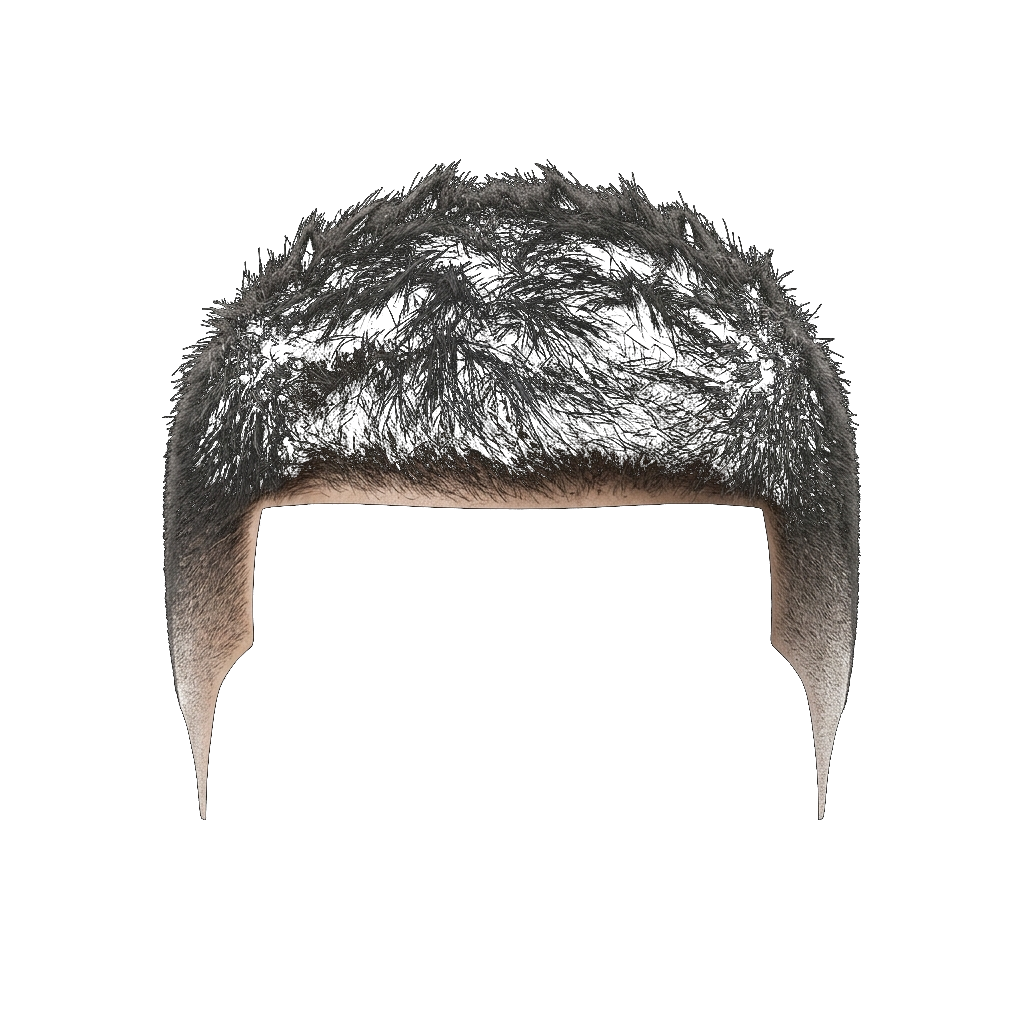
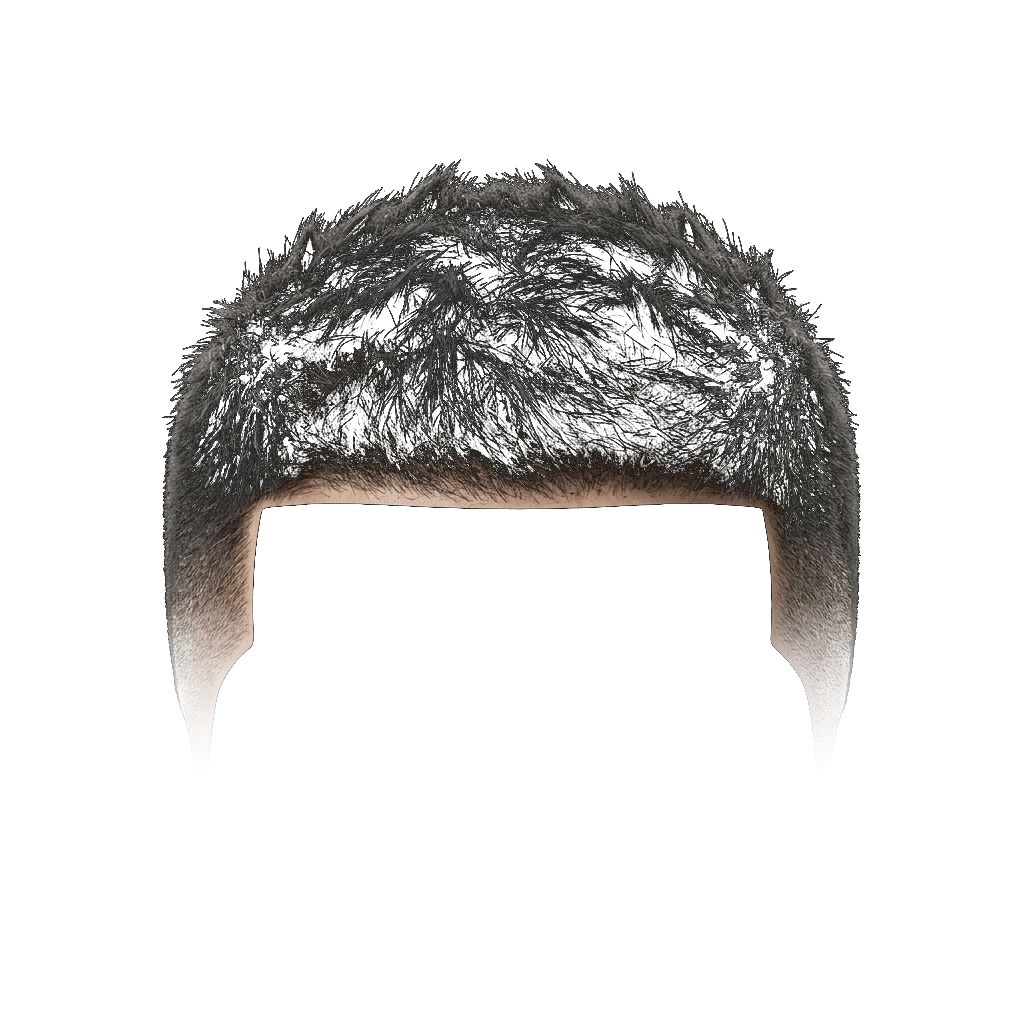
fix: eliminate glitter speckles, soften alpha blend roots, and calibrate cranial coverage in ARHairCanvas3D

Changed region(s): [[0.75, 0.5938, 0.8438, 0.8125], [0.1562, 0.5938, 0.25, 0.8125]]

diff --git a/src/components/ARHairCanvas3D.tsx b/src/components/ARHairCanvas3D.tsx
@@ -37,10 +37,10 @@ export const STYLE_CALIBRATION: Record<string, StyleCalibration> = {
     hasFlanks: false,
   },
   'textured-crop': {
-    yOffsetFactor: 0.05,
-    scaleFactor: 1.02,
+    yOffsetFactor: 0.08,
+    scaleFactor: 1.08,
     zOffset: 12,
-    curvatureDepth: 68,
+    curvatureDepth: 74,
     hasFlanks: false,
   },
   'classic-quiff': {
@@ -179,8 +179,8 @@ function generateHairNormalMap(image: HTMLImageElement): THREE.CanvasTexture {
       const up    = (src[((y - 1) * w + x) * 4] * 0.299 + src[((y - 1) * w + x) * 4 + 1] * 0.587 + src[((y - 1) * w + x) * 4 + 2] * 0.114);
       const down  = (src[((y + 1) * w + x) * 4] * 0.299 + src[((y + 1) * w + x) * 4 + 1] * 0.587 + src[((y + 1) * w + x) * 4 + 2] * 0.114);
 
-      const dx = ((right - left) / 255.0) * 3.5;
-      const dy = ((down - up) / 255.0) * 3.5;
+      const dx = ((right - left) / 255.0) * 1.0;
+      const dy = ((down - up) / 255.0) * 1.0;
       const dz = 1.0;
       const len = Math.sqrt(dx * dx + dy * dy + dz * dz) || 1.0;
 
@@ -304,7 +304,7 @@ export function updateHairMeshTransform(
 
   // 2. Dynamic Anatomical Scale
   const currentHeadWidth = pScreenRight.distanceTo(pScreenLeft);
-  const refSpan = 150.0; // Calibrated bitemporal reference span for full lateral cranial coverage
+  const refSpan = 118.0; // Calibrated bitemporal reference span for full lateral cranial coverage
   const calibScale = calib?.scaleFactor ?? 1.0;
   const scale = Math.max(0.40, Math.min(2.50, (currentHeadWidth / refSpan) * calibScale));
 
@@ -435,7 +435,7 @@ export function ARHairCanvas3D({
     if (hairMeshesRef.current.length === 0 || !volumetricHairGroupRef.current) return;
 
     const calib = STYLE_CALIBRATION[activeStyleId] || STYLE_CALIBRATION['classic-quiff'];
-    const layerOffsets = [0, 8, 16, 25];
+    const layerOffsets = [0, 8, 16, 24];
 
     hairMeshesRef.current.forEach((mesh, idx) => {
       const zLayer = layerOffsets[idx] || 0;
@@ -481,7 +481,7 @@ export function ARHairCanvas3D({
         mat.map = texture;
         if (normalMap && (idx === 2 || idx === 3 || idx >= 4)) {
           mat.normalMap = normalMap;
-          mat.normalScale = new THREE.Vector2(2.2, 2.2);
+          mat.normalScale = new THREE.Vector2(0.55, 0.55);
         }
         mat.needsUpdate = true;
       });
@@ -531,19 +531,20 @@ export function ARHairCanvas3D({
     rendererRef.current = renderer;
 
     // 2. Realistic 3D Studio Three-Point Directional Lighting
-    const ambientLight = new THREE.AmbientLight(0xfff8ee, 1.15);
+    const ambientLight = new THREE.AmbientLight(0xffffff, 1.30);
     scene.add(ambientLight);
 
-    const keyLight = new THREE.DirectionalLight(0xffffff, 1.65);
-    keyLight.position.set(160, 300, 260);
+    const keyLight = new THREE.DirectionalLight(0xfff8ee, 1.30);
+    keyLight.position.set(120, 240, 200);
     scene.add(keyLight);
 
-    const rimLight = new THREE.DirectionalLight(0xf5d77f, 1.85);
-    rimLight.position.set(-190, 240, -140);
+    // Soft neutral daylight hair backlight (replaces harsh gold rim light to eliminate yellow glitter)
+    const rimLight = new THREE.DirectionalLight(0xffeedb, 0.55);
+    rimLight.position.set(0, 260, -120);
     scene.add(rimLight);
 
-    const fillLight = new THREE.DirectionalLight(0xb8d8ff, 0.45);
-    fillLight.position.set(-110, -50, 160);
+    const fillLight = new THREE.DirectionalLight(0xe8f0ff, 0.55);
+    fillLight.position.set(-140, 60, 160);
     scene.add(fillLight);
 
     // 3. 3D Cranial Root Group
@@ -560,14 +561,17 @@ export function ARHairCanvas3D({
     const geometries: THREE.BufferGeometry[] = [];
     const meshes: THREE.Mesh[] = [];
 
-    const hairWidth = 265;
-    const hairHeight = 240;
+    // Expanded lateral and vertical cranial coverage: covers natural hair from ear to ear
+    const hairWidth = 345;
+    const hairHeight = 300;
     const calib = STYLE_CALIBRATION[activeStyleId] || STYLE_CALIBRATION['classic-quiff'];
 
     // Parametric 3D Cranial Shell Geometry Generator
-    // Continuous 54x54 vertex grid wrapping 3D coronal & sagittal depth
-    const createCurvedCranialGeometry = (curvatureDepth = 70, radialExpansion = 0) => {
-      const geo = new THREE.PlaneGeometry(hairWidth + radialExpansion * 1.2, hairHeight + radialExpansion * 0.8, 54, 54);
+    // Continuous 60x60 vertex grid with deep coronal wrap around skull flanks
+    const createCurvedCranialGeometry = (curvatureDepth = 75, radialExpansion = 0) => {
+      const w = hairWidth + radialExpansion * 1.3;
+      const h = hairHeight + radialExpansion * 0.9;
+      const geo = new THREE.PlaneGeometry(w, h, 60, 60);
       const pos = geo.attributes.position;
 
       for (let i = 0; i < pos.count; i++) {
@@ -575,10 +579,12 @@ export function ARHairCanvas3D({
         const v = pos.getY(i) / (hairHeight / 2); // -1 to +1
 
         // Spheroid cranial curvature:
-        // - Coronal curvature: sweeps backward around temples into -Z
+        // - Coronal curvature: sweeps backwards around temples and ears into -Z
         // - Sagittal curvature: arches over top of cranium into -Z
-        const zCurvature = -Math.pow(u, 2) * (curvatureDepth * 0.62) - (v > 0 ? Math.pow(v, 1.6) * (curvatureDepth * 0.45) : 0);
-        pos.setZ(i, zCurvature + radialExpansion);
+        const lateralFactor = Math.pow(Math.abs(u), 2.2);
+        const coronalWrap = -lateralFactor * (curvatureDepth * 0.75);
+        const sagittalArch = v > 0 ? -Math.pow(v, 1.8) * (curvatureDepth * 0.50) : 0;
+        pos.setZ(i, coronalWrap + sagittalArch + radialExpansion);
       }
       geo.computeVertexNormals();
       geometries.push(geo);
@@ -590,14 +596,14 @@ export function ARHairCanvas3D({
     // -------------------------------------------------------------------------
 
     // Shell 0: Scalp Foundation & Deep Root Density (Dark root tint, high opacity)
-    const shell0Geo = createCurvedCranialGeometry(65, 0);
+    const shell0Geo = createCurvedCranialGeometry(70, 0);
     const shell0Mat = new THREE.MeshStandardMaterial({
-      color: new THREE.Color(0x201813),
+      color: new THREE.Color(0x181412),
       roughness: 0.85,
-      metalness: 0.05,
+      metalness: 0.0,
       transparent: true,
-      opacity: 0.96,
-      alphaTest: 0.04,
+      opacity: 0.98,
+      alphaTest: 0.005,
       side: THREE.DoubleSide,
       depthTest: true,
       depthWrite: true,
@@ -609,17 +615,18 @@ export function ARHairCanvas3D({
     volumetricHairGroup.add(shell0Mesh);
     meshes.push(shell0Mesh);
 
-    // Shell 1: Deep Volumetric Mass (+8mm radial expansion)
-    const shell1Geo = createCurvedCranialGeometry(68, 8);
+    // Shell 1: Deep Volumetric Mass (+8mm radial expansion, smooth blending)
+    const shell1Geo = createCurvedCranialGeometry(74, 8);
     const shell1Mat = new THREE.MeshStandardMaterial({
-      roughness: 0.55,
-      metalness: 0.12,
+      roughness: 0.65,
+      metalness: 0.0,
       transparent: true,
       opacity: 0.88,
-      alphaTest: 0.04,
+      alphaTest: 0.001,
       side: THREE.DoubleSide,
       depthTest: true,
-      depthWrite: true,
+      depthWrite: false,
+      blending: THREE.NormalBlending,
     });
     materials.push(shell1Mat);
     const shell1Mesh = new THREE.Mesh(shell1Geo, shell1Mat);
@@ -629,16 +636,17 @@ export function ARHairCanvas3D({
     meshes.push(shell1Mesh);
 
     // Shell 2: Primary Mid-Volume Strata (+16mm radial expansion, normal-mapped)
-    const shell2Geo = createCurvedCranialGeometry(72, 16);
+    const shell2Geo = createCurvedCranialGeometry(78, 16);
     const shell2Mat = new THREE.MeshStandardMaterial({
-      roughness: 0.38,
-      metalness: 0.18,
+      roughness: 0.52,
+      metalness: 0.0,
       transparent: true,
-      opacity: 0.94,
-      alphaTest: 0.04,
+      opacity: 0.92,
+      alphaTest: 0.001,
       side: THREE.DoubleSide,
       depthTest: true,
-      depthWrite: true,
+      depthWrite: false,
+      blending: THREE.NormalBlending,
     });
     materials.push(shell2Mat);
     const shell2Mesh = new THREE.Mesh(shell2Geo, shell2Mat);
@@ -647,21 +655,22 @@ export function ARHairCanvas3D({
     volumetricHairGroup.add(shell2Mesh);
     meshes.push(shell2Mesh);
 
-    // Shell 3: Outer Mantle & Flyaway Silhouette (+25mm radial expansion, specular highlights)
-    const shell3Geo = createCurvedCranialGeometry(76, 25);
+    // Shell 3: Outer Mantle & Flyaway Silhouette (+24mm radial expansion, soft specular)
+    const shell3Geo = createCurvedCranialGeometry(82, 24);
     const shell3Mat = new THREE.MeshStandardMaterial({
-      roughness: 0.28,
-      metalness: 0.22,
+      roughness: 0.44,
+      metalness: 0.0,
       transparent: true,
       opacity: 0.80,
-      alphaTest: 0.04,
+      alphaTest: 0.001,
       side: THREE.DoubleSide,
       depthTest: true,
-      depthWrite: true,
+      depthWrite: false,
+      blending: THREE.NormalBlending,
     });
     materials.push(shell3Mat);
     const shell3Mesh = new THREE.Mesh(shell3Geo, shell3Mat);
-    shell3Mesh.position.set(0, 0, 25 + (calib.zOffset - 14));
+    shell3Mesh.position.set(0, 0, 24 + (calib.zOffset - 14));
     shell3Mesh.renderOrder = 8;
     volumetricHairGroup.add(shell3Mesh);
     meshes.push(shell3Mesh);
@@ -696,7 +705,7 @@ export function ARHairCanvas3D({
           m.map = tex;
           if (normalMap && (idx === 2 || idx === 3 || idx >= 4)) {
             m.normalMap = normalMap;
-            m.normalScale = new THREE.Vector2(2.2, 2.2);
+            m.normalScale = new THREE.Vector2(0.55, 0.55);
           }
           m.needsUpdate = true;
         });
